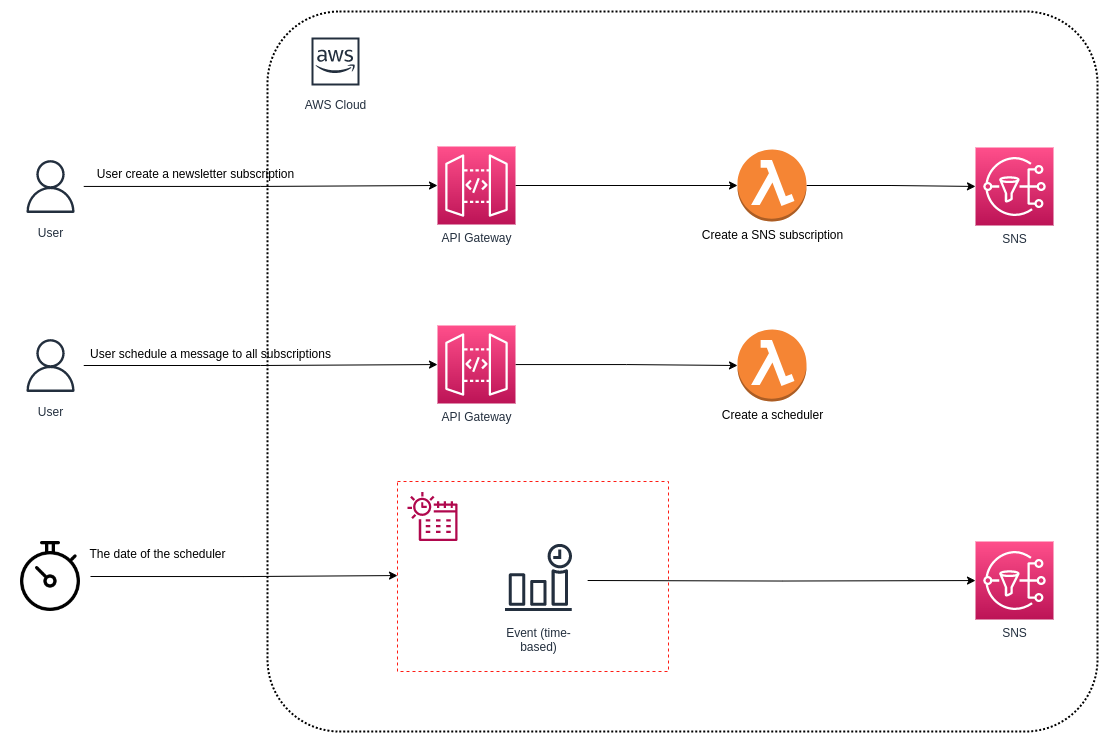
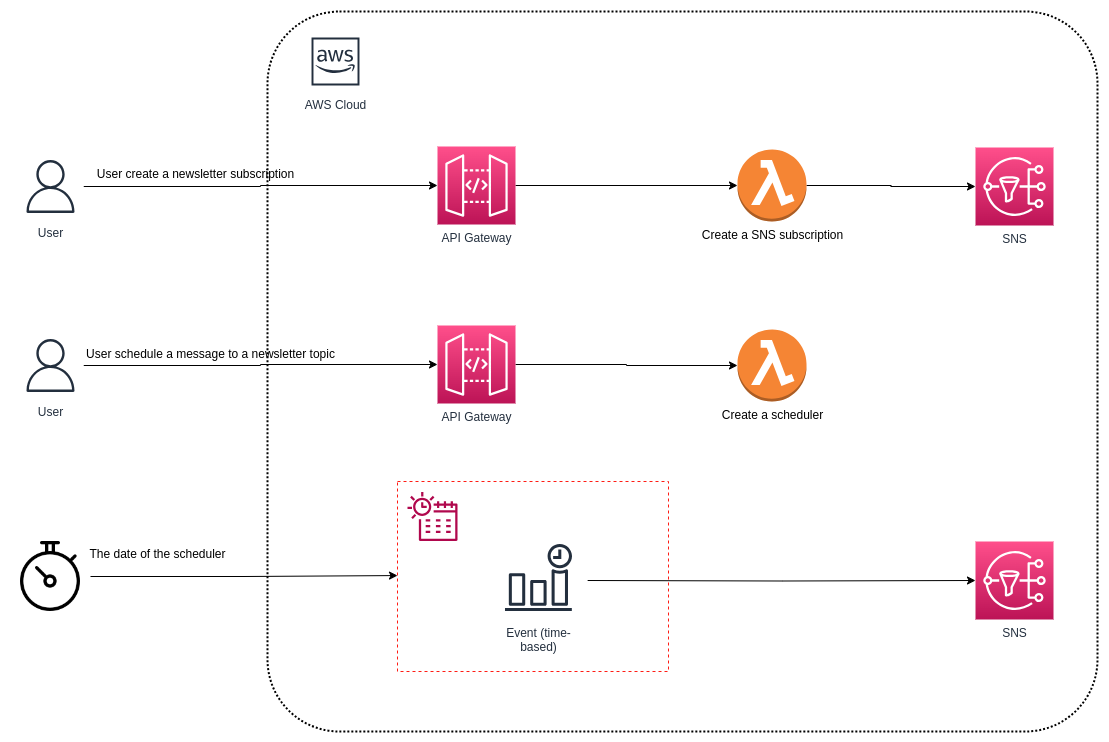
doc: updated draw and schedule body request

diff --git a/README.md b/README.md
@@ -50,7 +50,10 @@ The lambda-notifier is a project that uses AWS resources to enable the subscript
 8. Scheduler a new email in POST -> `/schedule`: 
   ```
   {
-    "message": "testing schedule"
+    "message": "testing schedule",
+    "minutesOffset": "5"
   }
   ```
+*minutesOffset*: Time in minutes to be added to the moment **(min: 2)**
+
 9. Await the time and verify your email
